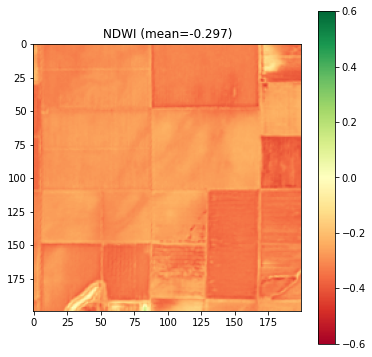
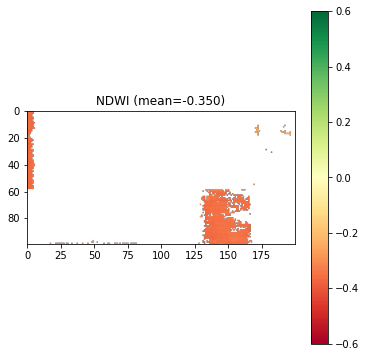
update loop with alfalfa subset

diff --git a/agent/loop.py b/agent/loop.py
@@ -34,12 +34,15 @@ CWSI (Crop Water Stress Index) from weather-derived VPD and thermal/NDVI data,
 retrieve timeseries data, flag anomalous regions, compare current conditions to
 historical baselines, and search local agricultural reference documents for crop-specific context.
 
-The dominant crop in this area is alfalfa.
+The target crop is alfalfa. A crop mask has been applied using USDA CDL data so that
+all spectral indices and statistics are computed only over alfalfa pixels. Non-alfalfa
+pixels are excluded (NaN-masked). This means the values you see reflect alfalfa health
+specifically, not the full scene average.
 
 **Your workflow**:
 1. Start with a broad assessment (e.g., compute NDVI for the region)
 2. If you detect stress, compute CWSI to assess water stress (call get_cwsi_weather_data first for weather inputs)
-3. Search agricultural context to understand what's normal for the local crops and conditions
+3. Search agricultural context to understand what's normal for alfalfa and local conditions
 4. Explain your reasoning in plain text before each tool call. Describe what you observed and why
 you're choosing the next tool.
 5. Only call tools when warranted by your observations. You do not need to use all available tools.
@@ -138,15 +141,19 @@ def run_agent(
 
 if __name__ == "__main__":
     import argparse
-    from agent.scene import load_scene
+    from agent.scene import load_scene, set_crop_mask
 
     parser = argparse.ArgumentParser(description="Run the crop health agent")
     parser.add_argument("--scene", choices=["scene_a", "scene_b", "central_valley"], default="central_valley")
+    parser.add_argument("--crop", default="alfalfa", help="Crop to filter analysis to (default: alfalfa)")
     parser.add_argument("--mock", action="store_true", help="Use mock mode (no API calls)")
     parser.add_argument("--temperature", type=float, default=0)
     args = parser.parse_args()
 
     load_scene(args.scene)
+    if args.crop:
+        n = set_crop_mask(args.crop)
+        print(f"Crop filter: {args.crop} — {n:,} pixels")
 
     if args.mock:
         from agent.mock import run_mock_agent
